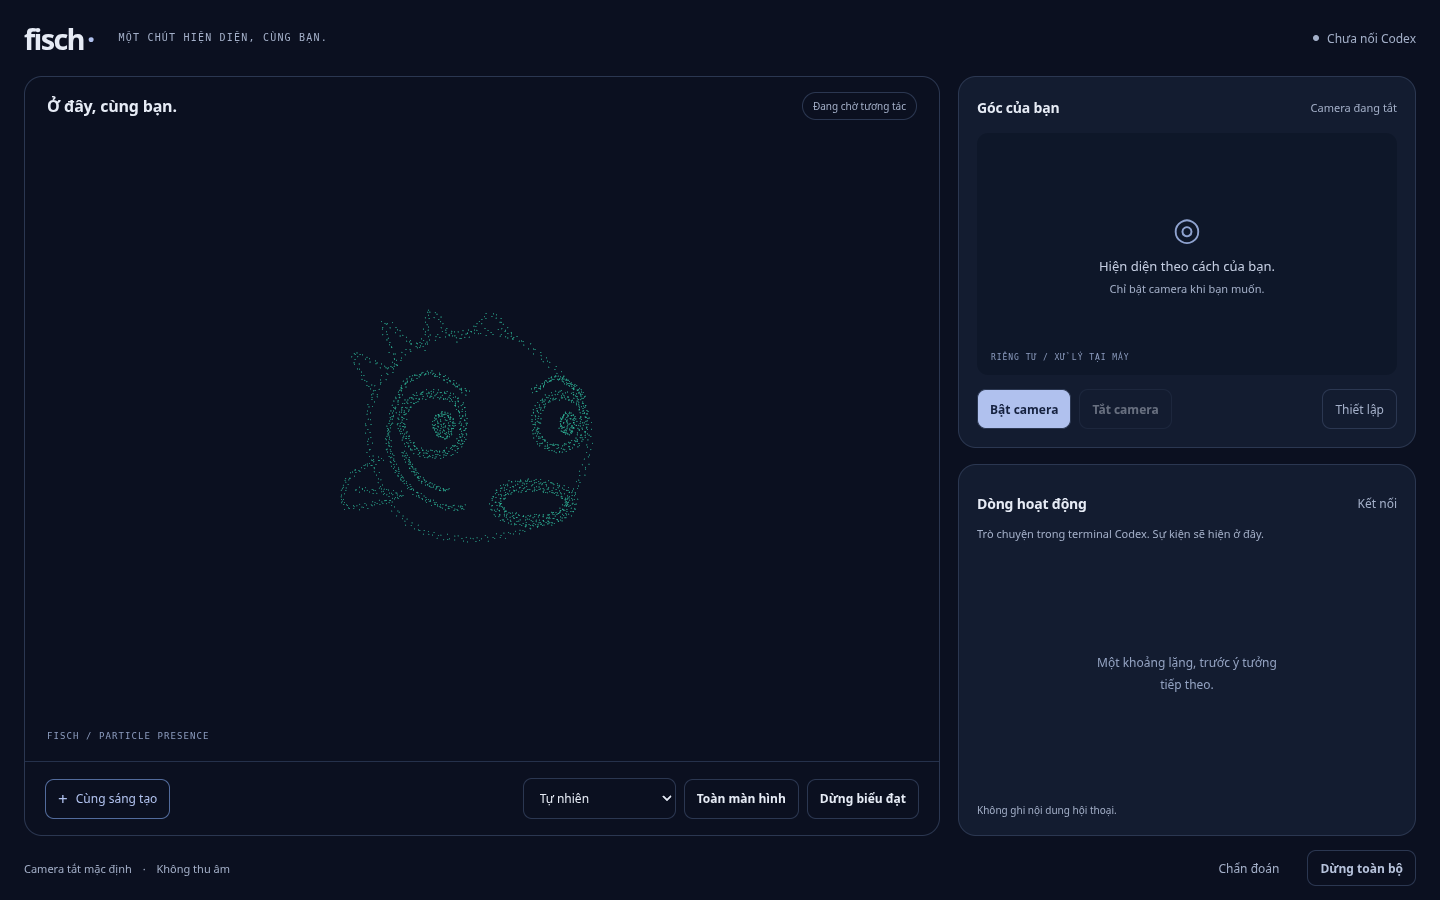
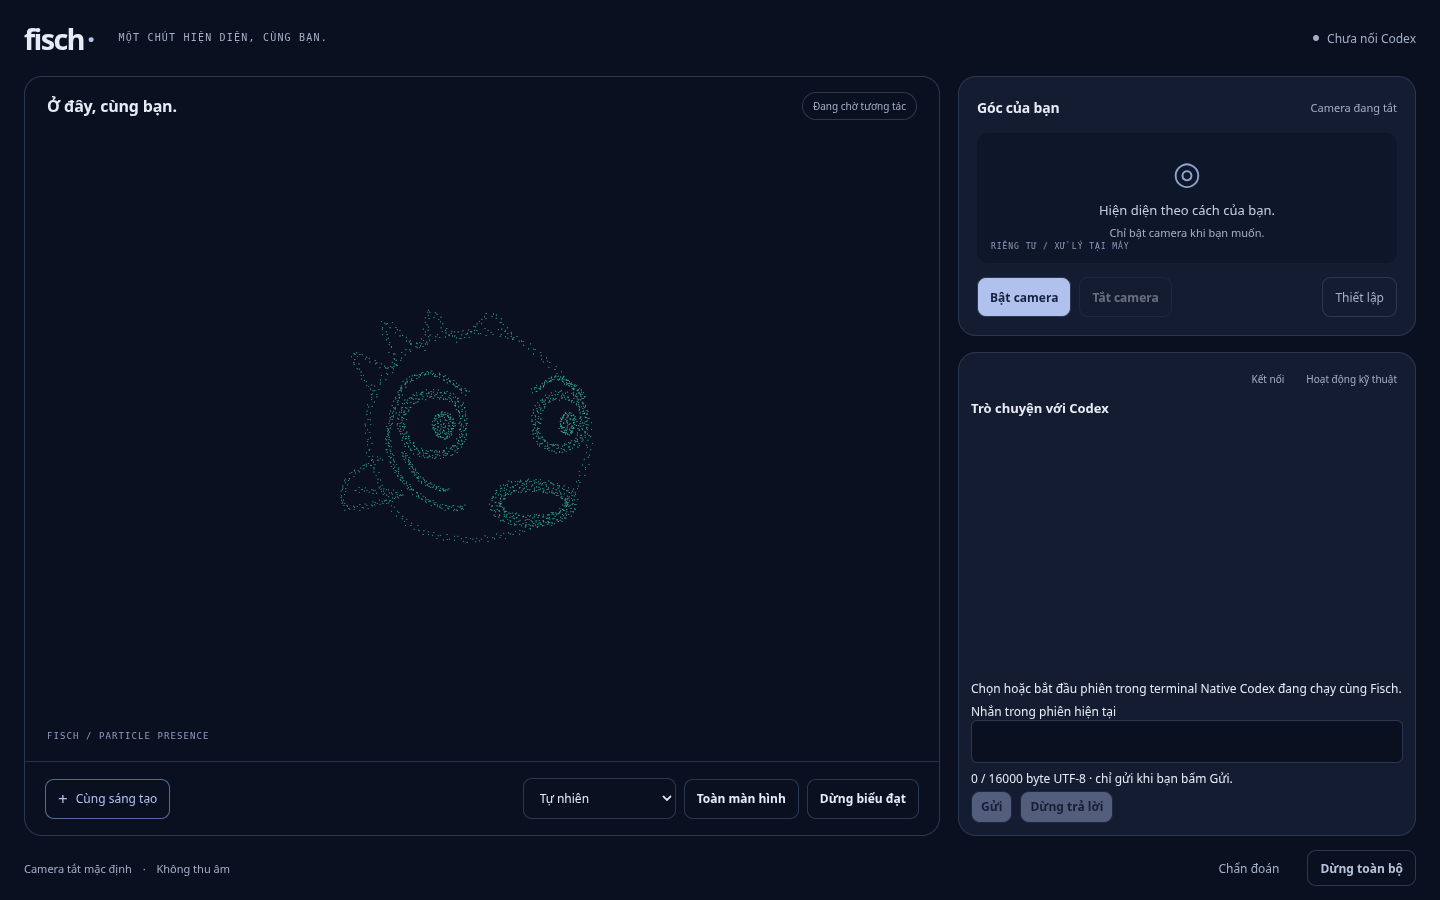
Document Live chat and require its real gateway tests (#128)

diff --git a/docs/live-morning-check.md b/docs/live-morning-check.md
@@ -36,19 +36,21 @@ vẫn giữ cwd là project. Không cần đổi ExecutionPolicy.
 Live mở Native Codex/host riêng trong terminal hiện tại, dùng login có sẵn;
 không hot-attach tiến trình Codex cũ. Browser không tự gửi nội dung bạn gõ ở
 Cùng sáng tạo. Nếu clipboard không dùng được, chọn/chép request đang hiện rồi
-tự dán vào terminal. Chỉ bắt đầu bấm giờ chơi sau khi Live mở xong.
+tự dán vào panel hội thoại hoặc terminal. Chỉ bắt đầu bấm giờ chơi sau khi Live mở xong.
 
 ## Kịch bản và điều cần nhìn
 
 | Phút | Thao tác | Điều cần quan sát / khi chưa đạt |
 | --- | --- | --- |
-| 0–2 | Trong terminal Native Codex mới, chọn/bắt đầu phiên rồi nhập một câu của chính bạn. Mở **Agent và cách dùng** trên trang. | Gateway đã nối và Native đã chọn phiên là hai trạng thái riêng. Camera vẫn tắt. “Đã chọn phiên” chưa chứng minh model trả lời; câu trả lời thực và hoạt động tool mới là bằng chứng. Nếu vẫn chờ, kiểm tra terminal, không mở thêm controller. |
-| 2–5 | Mở **Cùng sáng tạo**, nhập một ý tưởng của bạn, một dòng; mục tiêu tùy chọn. Bấm **Nguyên tác**, tự dán vào terminal và gửi. | “Đã chép; chưa gửi” đúng trước khi dán. Codex dùng `playground_state` rồi `playground_edit`; chỉ coi đã lưu khi tool trả `committed` và UI xác nhận lịch sử. Chỉ có text/ACK hoặc hạt tự chuyển động chưa đủ. |
+| 0–2 | Trong terminal Native Codex mới, chọn/bắt đầu phiên; sau đó nhập một câu của chính bạn ở panel hội thoại hoặc terminal. Mở **Kết nối** trên trang. | Gateway đã nối và Native đã chọn phiên là hai trạng thái riêng. Camera vẫn tắt. “Đã chọn phiên” chưa chứng minh model trả lời; câu trả lời thực và hoạt động tool mới là bằng chứng. Nếu vẫn chờ, kiểm tra terminal, không mở thêm controller. |
+| 2–5 | Mở **Cùng sáng tạo**, nhập một ý tưởng của bạn, một dòng; mục tiêu tùy chọn. Bấm **Nguyên tác**, tự dán vào panel hội thoại hoặc terminal và gửi. | “Đã chép; chưa gửi” đúng trước khi dán. Codex dùng `playground_state` rồi `playground_edit`; chỉ coi đã lưu khi tool trả `committed` và UI xác nhận lịch sử. Chỉ có text/ACK hoặc hạt tự chuyển động chưa đủ. |
 | 5–8 | Chọn một thay đổi bạn thật sự muốn, dùng **Chỉnh ý tưởng**, dán/gửi; sau đó dùng **Hoàn tác** tương tự. | Hình có thay đổi liên quan tới ý định, lịch sử tăng sau commit; undo quay về bản đã lưu trước. Tạo hình cần giữ bản sắc qua các lượt. “Đã lưu” là lịch sử trong phiên, không đảm bảo mọi frame bị đóng băng. |
 | 8–10 | Nếu bắt gặp trạng thái đang xử lý, bấm **Dừng biểu đạt** một lần, rồi nhờ Codex đọc lại state. | Không báo đã lưu mới nếu chưa hoàn tất. Nếu uncertain/recoveryRequired, đừng gửi lại request cũ tự động. Chỉ dùng **Phục hồi** khi đồng ý xóa lịch sử trong phiên, rồi tạo mới. Nếu không kịp ngắt, ghi “chưa thử”, không tính pass. |
 | 10–15 | Chơi tự do theo tò mò của bạn: tạo, sửa, undo hoặc nói chuyện. Không cần theo kịch bản mẫu. | Bạn có muốn tiếp tục không? Hình có liên quan và có điều bất ngờ thú vị không? Ghi cả khoảnh khắc chán, hiểu nhầm hoặc phải vật lộn với copy/paste. Không chỉ chọn happy case để quay video. |
-| Tùy chọn, tối đa 2 phút | Xem **Quan sát và phản ứng**. Chỉ bấm **Bật camera** nếu muốn; có thể từ chối quyền hoặc dùng **Tắt camera** bất kỳ lúc nào. | Camera opt-in và observer độc lập. Native có login không làm observer sẵn sàng. Observer chưa cấu hình/thiếu hoặc hết ngân sách thì giữ off; co-create vẫn thử được. Khi đã sẵn sàng, chỉ bật **Phản ứng theo camera** nếu đồng ý gửi typed observations tới provider riêng. Không kỳ vọng mỗi cử động đều tạo phản ứng. |
+| Tùy chọn, tối đa 2 phút | Xem trạng thái trong **Kết nối**, mở **Thiết lập** ở panel camera khi cần bật phản ứng. Chỉ bấm **Bật camera** nếu muốn; có thể từ chối quyền hoặc dùng **Tắt camera** bất kỳ lúc nào. | Camera opt-in và observer độc lập. Native có login không làm observer sẵn sàng. Observer chưa cấu hình/thiếu hoặc hết ngân sách thì giữ off; co-create vẫn thử được. Khi đã sẵn sàng, chỉ bật **Phản ứng theo camera** nếu đồng ý gửi typed observations tới provider riêng. Không kỳ vọng mỗi cử động đều tạo phản ứng. |
 | 1–2 phút cuối | Bấm **Dừng toàn bộ**, xem mã thoát, rồi chạy lại `fisch.cmd live` nếu muốn kiểm tra restart. | Dừng thành công trả 0; Ctrl+C/abort trả 130; đóng trang giữ khác 0 vì có thể là browser lỗi. Lượt mới camera-off, ý tưởng/request/lịch sử cũ không tự phục hồi. Đừng coi mất lịch sử qua restart là lưu trữ bền. |
+
+Để thử ngắt hội thoại, bấm **Dừng trả lời** khi turn đang chạy; chỉ coi đã ngắt khi trạng thái xác nhận. Nếu kết quả gửi chưa rõ, không bấm gửi lại. Chuyển thread thành công xóa draft/transcript; chuyển thất bại giữ draft. Reload đóng phiên theo cơ chế pagehide: chạy lại Live để có phiên sạch, không tự replay nội dung.
 
 Nếu camera bị từ chối, thử tiếp phần chữ; không tìm cách bỏ qua quyền. Nếu ngân
 sách observer hết hạn, không tăng limit, reset used hay gia hạn ledger để làm nút

diff --git a/docs/fisch-live.md b/docs/fisch-live.md
@@ -1,6 +1,25 @@
 # Fisch Live POC
 
-Fisch Live là trang web local gồm camera debug và cơ thể hạt WebGL, dùng cùng Codex CLI trong terminal thông thường; Herdr là adapter tùy chọn. Bạn trò chuyện trong terminal; Codex đọc quan sát có kiểu bằng MCP và tự chọn cách biểu đạt bằng DSL. Camera và phản xạ local không chờ model.
+Fisch Live là trang web local gồm camera debug và cơ thể hạt WebGL, dùng cùng Codex CLI trong terminal thông thường; Herdr là adapter tùy chọn. Bạn trò chuyện trong terminal hoặc panel hội thoại của cùng phiên Native Codex; Codex đọc quan sát có kiểu bằng MCP và tự chọn cách biểu đạt bằng DSL. Camera và phản xạ local không chờ model.
+
+## Hội thoại cùng agent hiện có
+
+Panel text dùng đường Native mặc định; adapter `--agent` legacy tiếp tục nhập
+trong terminal. Panel chỉ gửi khi bạn bấm **Gửi**, tới thread Native đang được chọn.
+Nó hiển thị user/assistant text thực của turn đang theo dõi, không biến log công cụ
+hoặc reasoning thành lời trả lời. Panel chỉ giữ bản sao trong bộ nhớ phiên, không ghi
+vào local storage hoặc recording; Native Codex giữ lịch sử theo cấu hình hiện có.
+Giới hạn mỗi lần gửi là 16000 byte UTF-8.
+
+**Dừng trả lời** yêu cầu ngắt đúng turn hiện tại; ACK chưa chứng minh turn đã kết
+thúc. Nếu kết quả gửi chưa rõ, không tự gửi lại: kiểm tra terminal hoặc khởi chạy
+lại Live. Chuyển thread thành công xóa lịch sử và bản nháp ở panel; chuyển thất bại
+giữ bản nháp. Reload yêu cầu khởi chạy lại Live để nối lại, không tự replay nội dung.
+**Dừng toàn bộ** xóa panel và đóng tài nguyên thuộc phiên.
+
+Camera mặc định tắt và cần bạn bật riêng. Observer camera không nhận nội dung chat
+hoặc code; phản ứng tự động không được thêm vào thread coding. Agent Native có thể
+chủ động dùng expression tools theo ngữ cảnh hội thoại/công việc của chính nó.
 
 ## Khởi chạy trong terminal đã chuẩn bị
 
@@ -14,7 +33,7 @@ Lệnh chuẩn bị build/gateway, mở browser và Codex trong terminal hiện 
 
 Sau `npm link`, lệnh `fisch` có trên PATH. Với checkout mới, chạy bước link một lần sau chuẩn bị; sau đó luôn dùng `fisch live`. `fisch run` và các CLI `fisch express`/`fisch cancel` đã được bỏ; `npm start` trong checkout cũng khởi chạy Live. Xem [hướng dẫn chuyển từ panel](multiplexer.md). Tùy chọn `--agent` chỉ dành cho debug/chọn workspace nguồn tường minh, không cần trong luồng thường ngày.
 
-Launcher mở Edge/Chromium với trang Live và camera mặc định **tắt**. Chọn **Bật camera** để xử lý tại máy. Fisch ở panel trái; camera và nhật ký hoạt động agent ở panel phải. Tiếp tục gõ vào Codex trong terminal/pane Live. MCP có thể hỏi quyền tool lần đầu; cấp quyền theo ý bạn. Launcher không sửa global Codex/Herdr config hoặc bypass hook trust.
+Launcher mở Edge/Chromium với trang Live và camera mặc định **tắt**. Chọn **Bật camera** để xử lý tại máy. Fisch ở panel trái; camera và hội thoại ở panel phải. Trong terminal/pane Live, chọn hoặc bắt đầu phiên Native Codex trước; sau đó có thể gõ ở panel hội thoại hoặc tiếp tục trong terminal. Nhật ký hoạt động là dữ liệu kỹ thuật riêng, không phải tin nhắn. MCP có thể hỏi quyền tool lần đầu; cấp quyền theo ý bạn. Launcher không sửa global Codex/Herdr config hoặc bypass hook trust.
 
 Đóng cửa sổ browser, chọn **Dừng toàn bộ**, hoặc Ctrl+C tại launcher để dừng camera/gateway/renderer. Đường terminal đóng cả Codex do chính phiên Live sở hữu; các agent không liên quan giữ nguyên. Browser, gateway và agent có đường cleanup độc lập. Herdr giữ vòng đời pane riêng; tool Live không còn dùng được sau khi gateway dừng. Chạy lại Live tạo pairing token mới.
 
@@ -166,10 +185,11 @@ reflex tới centroid >2 px đo 172,7 ms có overhead readback; target first-mot
 
 ## Compact filming stage and optional hand perception
 
-Use **Toàn màn hình** for the particle stage; Escape restores the controls. Motion
-reduction/off remain available before entering. Voice is outside this demo's
-scope; no STT/TTS work or voice acceptance gate is included. Conversation still
-runs in the existing Codex terminal.
+Use **Toàn màn hình** for the particle stage and **Thoát toàn màn hình** to leave.
+Motion reduction/off, expression cancellation and Stop remain reachable in fullscreen. Voice is outside this demo's
+scope; no STT/TTS work or voice acceptance gate is included. Text conversation uses
+the existing Codex agent, through its terminal or the Live conversation panel
+after selecting a Native thread. No extra agent or model is started.
 
 Prepare the optional local gesture model once with
 `FISCH_PREPARE_HANDS=1 node scripts/prepare-live-assets.mjs` (PowerShell: set the

diff --git a/README.md b/README.md
@@ -2,11 +2,11 @@
 
 A visible particle body for your coding agent.
 
-Fisch turns agent activity into motion and lets Codex create expressions and illustrations with particles. It runs locally in a browser, with Codex in your terminal.
+Fisch turns agent activity into motion and lets Codex create expressions and illustrations with particles. It runs locally in a browser, with the existing Codex agent in your terminal and a same-thread text panel in Live.
 
-![Fisch Live in a blue-black single-screen layout, with the particle body on the left and camera-off and activity panels on the right.](docs/evidence/live-workspace.png)
+![Fisch Live in a blue-black single-screen layout, with the particle body on the left and camera-off and conversation panels on the right.](docs/evidence/live-workspace.png)
 
-*Actual 1440 × 900 browser screenshot, camera off and Codex disconnected. No real camera imagery or simulated conversation; [validation limits](docs/validation.md) still apply.*
+*Actual 1440 × 900 browser screenshot, camera off and Codex disconnected. No real camera imagery or simulated conversation. See [capture details](docs/evidence/live-workspace-provenance.json) and [validation limits](docs/validation.md).*
 
 ## Why Fisch?
 
@@ -43,7 +43,7 @@ On first launch, Fisch installs locked project dependencies, builds the browser 
 
 Use `fisch live --hands` to also prepare the optional hand model, or `fisch live --no-assets` to skip vision downloads. Camera and hand tracking still require explicit browser controls. If a model download fails, Live continues camera-off and retries next launch.
 
-This opens the particle face in a browser and Codex in your terminal. Inside Herdr or another multiplexer, Codex runs in the pane where you launched Live. The explicit `--agent <pane>` legacy adapter remains available. Click **Bật camera** when you want local face tracking; the camera starts off. Real camera images stay on your machine. Talk to Codex normally.
+This opens the particle face in a browser and Codex in your terminal. Inside Herdr or another multiplexer, Codex runs in the pane where you launched Live. The explicit `--agent <pane>` legacy adapter remains available. Click **Bật camera** when you want local face tracking; the camera starts off. Real camera images stay on your machine. Select or start a Native Codex thread in that terminal, then talk in the Live text panel or continue in the terminal.
 
 `npm start` is the checkout-local equivalent of `fisch live`; pass options with `npm start -- --hands`.
 
